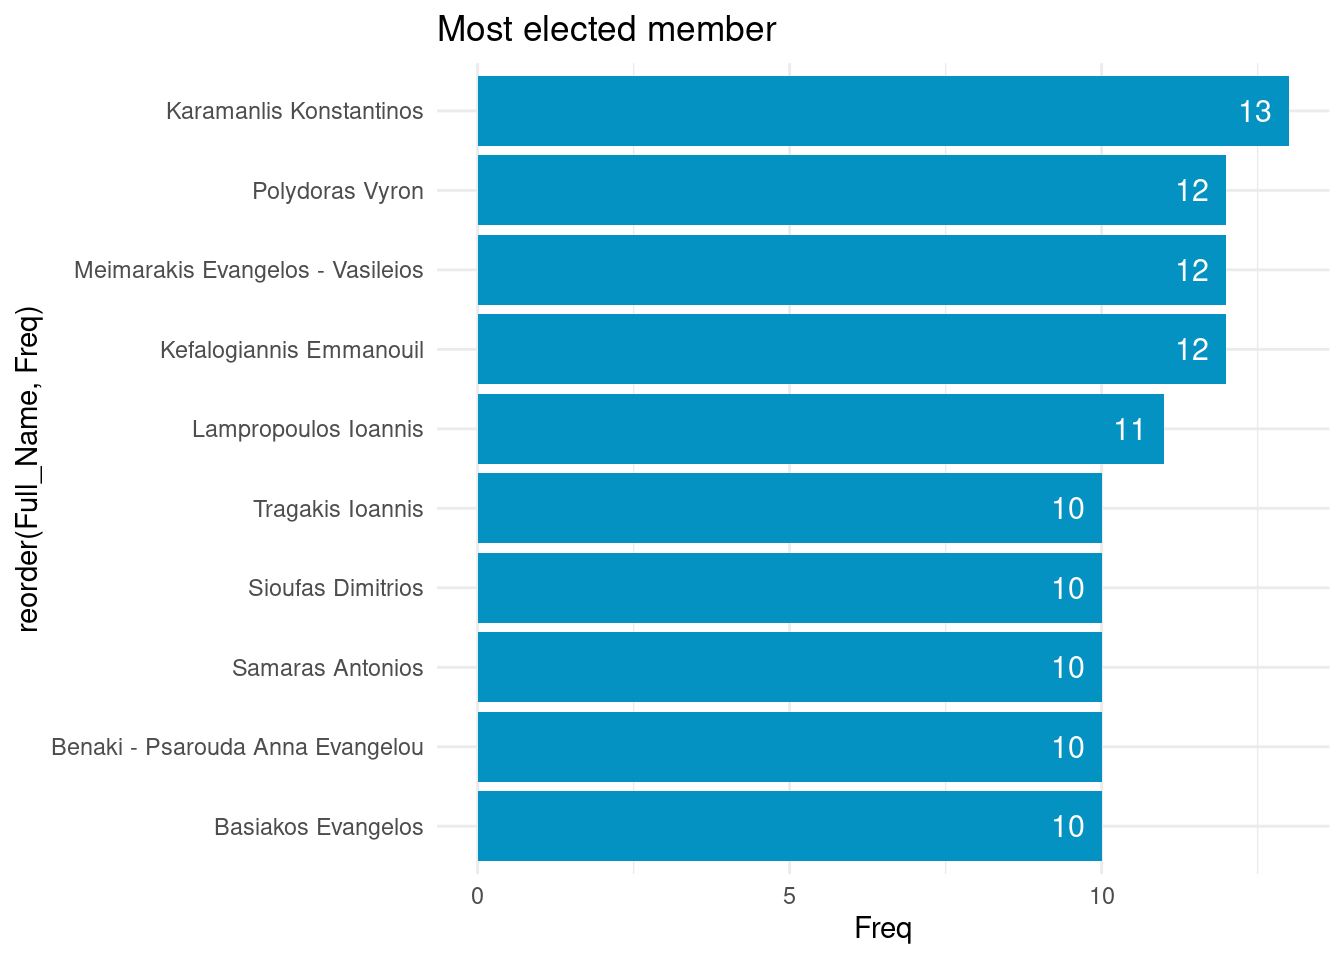
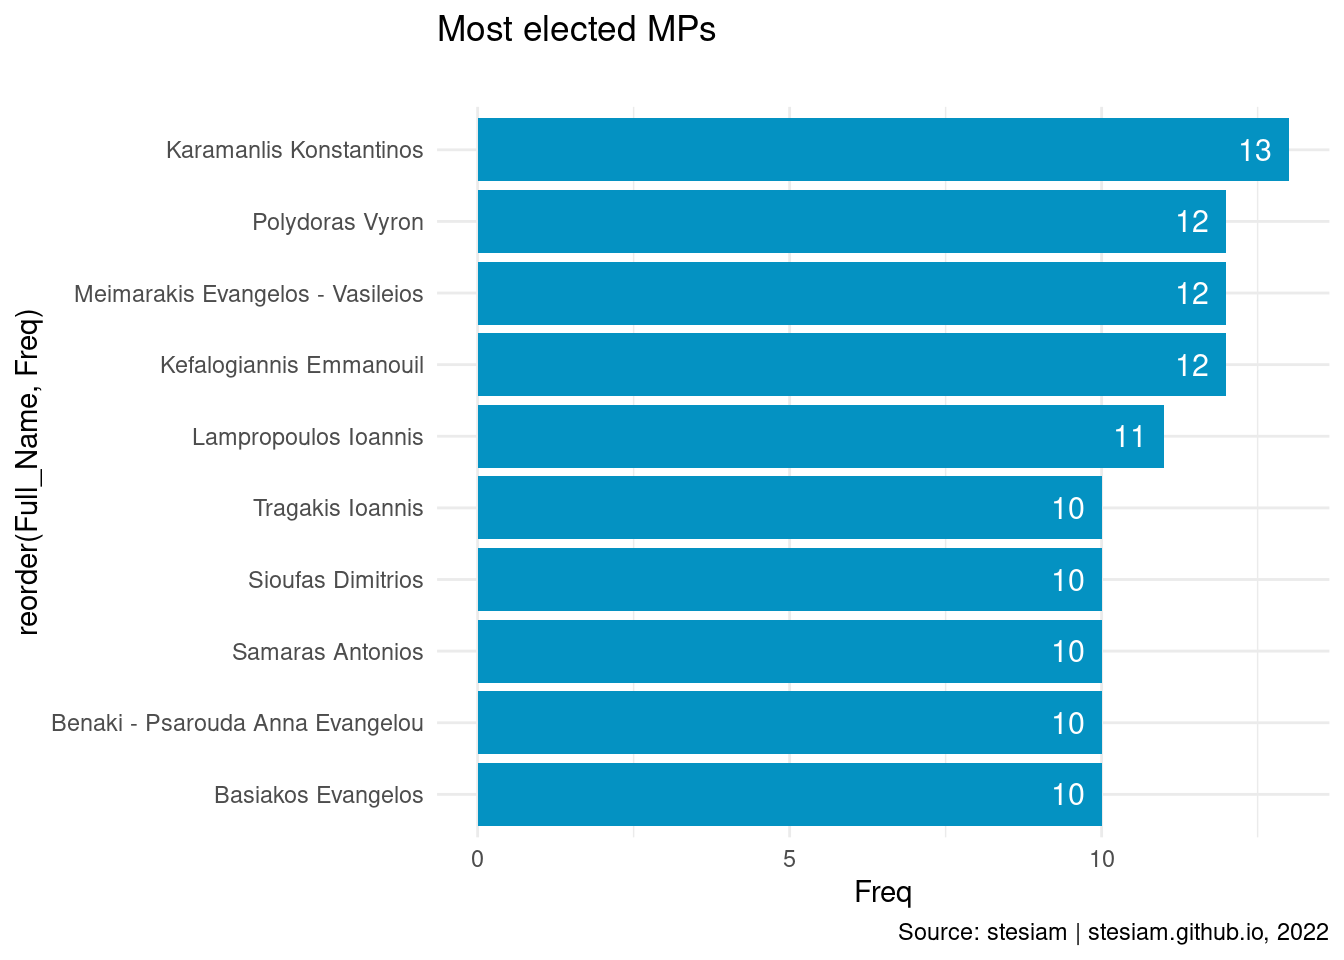
Edit article - EDA Greek Parliament

diff --git a/docs/notebooks/2022-10-10-Surnames-Greek-Parliament/2022-10-10-Surnames-Greek-Parliament.html b/docs/notebooks/2022-10-10-Surnames-Greek-Parliament/2022-10-10-Surnames-Greek-Parliament.html
@@ -242,7 +242,7 @@ div.csl-indent {
   <li><a href="#parliament-over-the-years" id="toc-parliament-over-the-years" class="nav-link" data-scroll-target="#parliament-over-the-years">Parliament over the years</a></li>
   <li><a href="#most-elected-members-of-parliament" id="toc-most-elected-members-of-parliament" class="nav-link" data-scroll-target="#most-elected-members-of-parliament">Most elected members of parliament</a></li>
   <li>
-<a href="#most-elected-members-based-on-party" id="toc-most-elected-members-based-on-party" class="nav-link" data-scroll-target="#most-elected-members-based-on-party">Most elected members based on party</a>
+<a href="#most-elected-members-by-party" id="toc-most-elected-members-by-party" class="nav-link" data-scroll-target="#most-elected-members-by-party">Most elected members by party</a>
   <ul class="collapse">
 <li><a href="#kke" id="toc-kke" class="nav-link" data-scroll-target="#kke">KKE</a></li>
   <li><a href="#nd" id="toc-nd" class="nav-link" data-scroll-target="#nd">ND</a></li>
@@ -251,6 +251,7 @@ div.csl-indent {
   </ul>
 </li>
   <li><a href="#most-elected-members-based-on-constituency" id="toc-most-elected-members-based-on-constituency" class="nav-link" data-scroll-target="#most-elected-members-based-on-constituency">Most elected members based on constituency</a></li>
+  <li><a href="#conclusion" id="toc-conclusion" class="nav-link" data-scroll-target="#conclusion">Conclusion</a></li>
   <li><a href="#acknowledgments" id="toc-acknowledgments" class="nav-link" data-scroll-target="#acknowledgments">Acknowledgments</a></li>
   </ul><div class="toc-actions"><div><i class="bi bi-github"></i></div><div class="action-links"><p><a href="https://github.com/stesiam/stesiam.github.io/edit/main/notebooks/2022-10-10-Surnames-Greek-Parliament/2022-10-10-Surnames-Greek-Parliament.qmd" class="toc-action">Edit this page</a></p><p><a href="https://github.com/stesiam/stesiam.github.io/issues/new" class="toc-action">Report an issue</a></p></div></div></nav>
 </nav><!-- margin-sidebar --><div id="quarto-margin-sidebar" class="sidebar margin-sidebar">
@@ -269,10 +270,10 @@ div.csl-indent {
 <a href="#most-elected-members-of-parliament">Most elected members of parliament</a> <br>
 </li>
 <li>
-<a href="#most-elected-members-per-party">Most elected members per party</a> <br> &nbsp; 5.1 <a href="#kke">KKE</a> <br> &nbsp; 5.2 <a href="#nd">ND</a> <br> &nbsp; 5.3 <a href="#pasok">PASOK</a> <br> &nbsp; 5.4 <a href="#syriza">SYRIZA</a> <br>
+<a href="#most-elected-members-by-party">Most elected members by party</a> <br> &nbsp; 5.1 <a href="#kke">KKE</a> <br> &nbsp; 5.2 <a href="#nd">ND</a> <br> &nbsp; 5.3 <a href="#pasok">PASOK</a> <br> &nbsp; 5.4 <a href="#syriza">SYRIZA</a> <br>
 </li>
 <li>
-<a href="#most-elected-members-per-constituency">Most elected members per constituency</a> <br> &nbsp; 6.1 <a href="#attica">Attica</a> <br> &nbsp; 6.2 <a href="#attica">Central Greece</a> <br> &nbsp; 6.3 <a href="#attica">Central Macedonia</a> <br> &nbsp; 6.4 <a href="#attica">Crete</a> <br> &nbsp; 6.5 <a href="#attica">Eastern Macedonia and Thrace</a> <br> &nbsp; 6.6 <a href="#attica">Epirus</a> <br> &nbsp; 6.7 <a href="#attica">Ionian Islands</a> <br> &nbsp; 6.8 <a href="#attica">North Aegean</a> <br> &nbsp; 6.9 <a href="#attica">Peloponnese</a> <br> &nbsp; 6.10 <a href="#attica">South Aegean</a> <br> &nbsp; 6.11 <a href="#attica">Thessaly</a> <br> &nbsp; 6.12 <a href="#attica">Western Greece</a> <br> &nbsp; 6.13 <a href="#">Western Macedonia</a> <br>
+<a href="#most-elected-members-per-constituency">Most elected members per constituency</a> <br> &nbsp; 6.1 <a href="#attica">Attica</a> <br> &nbsp; 6.2 <a href="#central-greece">Central Greece</a> <br> &nbsp; 6.3 <a href="#central-macenodia">Central Macedonia</a> <br> &nbsp; 6.4 <a href="#crete">Crete</a> <br> &nbsp; 6.5 <a href="#eastern-macedonia-and-thrace">Eastern Macedonia and Thrace</a> <br> &nbsp; 6.6 <a href="#epirus">Epirus</a> <br> &nbsp; 6.7 <a href="#ionian-islands">Ionian Islands</a> <br> &nbsp; 6.8 <a href="#north-aegean">North Aegean</a> <br> &nbsp; 6.9 <a href="#pelopponnese">Peloponnese</a> <br> &nbsp; 6.10 <a href="#south-aegean">South Aegean</a> <br> &nbsp; 6.11 <a href="#thessaly">Thessaly</a> <br> &nbsp; 6.12 <a href="#western-greece">Western Greece</a> <br> &nbsp; 6.13 <a href="#western-macedonia">Western Macedonia</a> <br>
 </li>
 <li><a href="#acknowledgements">Acknowledgements</a></li>
 <li>
@@ -522,7 +523,9 @@ div.csl-indent {
 <span>  <span class="fu"><a href="https://ggplot2.tidyverse.org/reference/geom_text.html">geom_text</a></span><span class="op">(</span><span class="fu"><a href="https://ggplot2.tidyverse.org/reference/aes.html">aes</a></span><span class="op">(</span>label<span class="op">=</span><span class="va">Freq</span><span class="op">)</span>, hjust <span class="op">=</span> <span class="fl">1.5</span>, vjust<span class="op">=</span><span class="fl">0.5</span>, color<span class="op">=</span><span class="st">"white"</span>, size<span class="op">=</span><span class="fl">4</span><span class="op">)</span><span class="op">+</span></span>
 <span>  <span class="fu"><a href="https://ggplot2.tidyverse.org/reference/ggtheme.html">theme_minimal</a></span><span class="op">(</span><span class="op">)</span> <span class="op">+</span></span>
 <span>  <span class="fu"><a href="https://ggplot2.tidyverse.org/reference/scale_grey.html">scale_fill_grey</a></span><span class="op">(</span><span class="op">)</span> <span class="op">+</span></span>
-<span>  <span class="fu"><a href="https://ggplot2.tidyverse.org/reference/labs.html">ggtitle</a></span><span class="op">(</span><span class="st">"Most elected MPs on Greek Parliament (1981 - 2019)"</span><span class="op">)</span> <span class="op">+</span></span>
+<span>  <span class="fu"><a href="https://ggplot2.tidyverse.org/reference/labs.html">labs</a></span><span class="op">(</span>title <span class="op">=</span> <span class="st">"Most elected MPs on Greek Parliament (1981 - 2019)"</span>,</span>
+<span>       subtitle <span class="op">=</span> <span class="st">""</span>,</span>
+<span>       caption <span class="op">=</span> <span class="st">"Source: stesiam | stesiam.github.io, 2022"</span><span class="op">)</span> <span class="op">+</span></span>
 <span>  <span class="fu"><a href="https://ggplot2.tidyverse.org/reference/coord_flip.html">coord_flip</a></span><span class="op">(</span><span class="op">)</span></span></code><button title="Copy to Clipboard" class="code-copy-button"><i class="bi"></i></button></pre></div>
 </details><div class="cell-output-display">
 <div class="quarto-figure quarto-figure-center">
@@ -532,8 +535,9 @@ div.csl-indent {
 </div>
 </div>
 </div>
-</section><section id="most-elected-members-based-on-party" class="level1"><h1>Most elected members based on party</h1>
-<p>Μέχρι τώρα είδαμε τα πιο εκλέξιμα μέλη στην ιστορία της μεταπολίτευσης. Ωστόσο, θα είχε ιδιαίτερο ενδριαφέρον να μελετήσουμε το ίδιο χαρακτηριστικό ανά κόμμα. Μία τέτοια ανάλυση για να έχει νόημα απαιτεί μακροχρόνια παρουσία για το κάποιο κόμμα στη Βουλή, οπότε παρακάτω παρουσιάζω τα κόμματα που έχουν τις περισσότερες συμμετοχές στη βουλή. Τέλος, παρατηρώ ότι θα υπάρξει μία σειρά παρόμοιων διαγραμμάτων με ελάχιστες αλλαγές (π.χ. φιλτράρισμα βάσης δεδομένων με βάση το κόμμα και ίσως αλλαγή χρώματος), συνεπώς η χρήση μίας συνάρτησης αποτελεί τον ενδεδειγμένο τρόπο για να συνεχίσω την ανάλυσή μου. Με αυτόν τον τρόπο προσπαθώ να μην επαναλάβω τον ίδιο κώδικα, ακολουθώντας μία σημαντική αρχή του προγραμματισμού (DRY - Don’t repeat yourself).</p>
+</section><section id="most-elected-members-by-party" class="level1"><h1>Most elected members by party</h1>
+<p>So far we have seen the most elected members of Greek parliament for the period 1981-2019. Ιt would be particularly interesting to study the same feature by party. However, finding the most elected member per party can be challenging on parties with relatively low representation on Greek parliament. That is the reason for choosing only some of those.</p>
+<p>Concerning the implementation part, I see that I will make some visualizations with minimum changes (e.g., filter dataset based on party, change color, etc.) so, the creation of a function is justified. That way, I will not repeat same code, following one of the principles of programming (DRY - Don’t Repeat Yourself).</p>
 <div class="cell">
 <details><summary>Show the code</summary><div class="sourceCode" id="cb9"><pre class="downlit sourceCode r code-with-copy"><code class="sourceCode R"><span><span class="va">party_plot</span> <span class="op">&lt;-</span> <span class="kw">function</span><span class="op">(</span><span class="va">party</span>, <span class="va">party_color</span>, <span class="va">times_elected_min</span><span class="op">)</span><span class="op">{</span></span>
 <span>  <span class="va">party_df</span> <span class="op">=</span> <span class="va">parliament</span> <span class="op"><a href="https://magrittr.tidyverse.org/reference/pipe.html">%&gt;%</a></span> <span class="fu"><a href="https://dplyr.tidyverse.org/reference/filter.html">filter</a></span><span class="op">(</span><span class="va">Party</span> <span class="op">==</span> <span class="va">party</span><span class="op">)</span> <span class="op"><a href="https://magrittr.tidyverse.org/reference/pipe.html">%&gt;%</a></span></span>
@@ -543,12 +547,14 @@ div.csl-indent {
 <span>  <span class="fu"><a href="https://ggplot2.tidyverse.org/reference/geom_bar.html">geom_bar</a></span><span class="op">(</span>stat <span class="op">=</span> <span class="st">"identity"</span>,width <span class="op">=</span> <span class="fl">0.88</span>, fill <span class="op">=</span> <span class="va">party_color</span><span class="op">)</span> <span class="op">+</span></span>
 <span>  <span class="fu"><a href="https://ggplot2.tidyverse.org/reference/geom_text.html">geom_text</a></span><span class="op">(</span><span class="fu"><a href="https://ggplot2.tidyverse.org/reference/aes.html">aes</a></span><span class="op">(</span>label<span class="op">=</span><span class="va">Freq</span><span class="op">)</span>, hjust <span class="op">=</span> <span class="fl">1.5</span>, vjust<span class="op">=</span><span class="fl">0.5</span>, color<span class="op">=</span><span class="st">"white"</span>, size<span class="op">=</span><span class="fl">4</span><span class="op">)</span><span class="op">+</span></span>
 <span>  <span class="fu"><a href="https://ggplot2.tidyverse.org/reference/ggtheme.html">theme_minimal</a></span><span class="op">(</span><span class="op">)</span> <span class="op">+</span></span>
-<span>  <span class="fu"><a href="https://ggplot2.tidyverse.org/reference/labs.html">ggtitle</a></span><span class="op">(</span><span class="st">"Most elected member"</span><span class="op">)</span> <span class="op">+</span></span>
+<span>   <span class="fu"><a href="https://ggplot2.tidyverse.org/reference/labs.html">labs</a></span><span class="op">(</span>title <span class="op">=</span> <span class="st">"Most elected MPs"</span>,</span>
+<span>       subtitle <span class="op">=</span> <span class="st">""</span>,</span>
+<span>       caption <span class="op">=</span> <span class="st">"Source: stesiam | stesiam.github.io, 2022"</span><span class="op">)</span> <span class="op">+</span></span>
 <span>  <span class="fu"><a href="https://ggplot2.tidyverse.org/reference/coord_flip.html">coord_flip</a></span><span class="op">(</span><span class="op">)</span></span>
 <span><span class="op">}</span></span></code><button title="Copy to Clipboard" class="code-copy-button"><i class="bi"></i></button></pre></div>
 </details>
 </div>
-<p>Οι αναλύσεις ανά κόμμα παρουσιάζονται με αλφαβητική σειρά :</p>
+<p>The visualizations are presented in alphabetical order.</p>
 <section id="kke" class="level2"><h2 class="anchored" data-anchor-id="kke">KKE</h2>
 <div class="cell">
 <details><summary>Show the code</summary><div class="sourceCode" id="cb10"><pre class="downlit sourceCode r code-with-copy"><code class="sourceCode R"><span><span class="fu">party_plot</span><span class="op">(</span><span class="st">"KKE"</span>, <span class="st">"#FF6666"</span>, times_elected_min <span class="op">=</span> <span class="fl">5</span><span class="op">)</span></span></code><button title="Copy to Clipboard" class="code-copy-button"><i class="bi"></i></button></pre></div>
@@ -578,7 +584,14 @@ div.csl-indent {
 </div>
 </div>
 </section></section><section id="most-elected-members-based-on-constituency" class="level1"><h1>Most elected members based on constituency</h1>
-<p>A function for constituencies.</p>
+<p>So far we have seen :</p>
+<ul>
+<li>the composition of Greek Parliament</li>
+<li>the most elected MPs on national level and</li>
+<li>the most elected MPs on party level</li>
+</ul>
+<p>The last part of my analysis will investigate the most popular MPs on local level (per profecture).</p>
+<p>Obviously, the same logic applies to party charts (same processes with minor changes), so the use of a function is almost mandatory (over fifty -50- cases !).</p>
 <div class="cell">
 <details><summary>Show the code</summary><div class="sourceCode" id="cb14"><pre class="downlit sourceCode r code-with-copy"><code class="sourceCode R"><span><span class="va">constituency_freqs</span> <span class="op">&lt;-</span> <span class="kw">function</span><span class="op">(</span><span class="va">input_constituency</span><span class="op">)</span><span class="op">{</span></span>
 <span><span class="va">parliament</span> <span class="op"><a href="https://magrittr.tidyverse.org/reference/pipe.html">%&gt;%</a></span> <span class="fu"><a href="https://dplyr.tidyverse.org/reference/filter.html">filter</a></span><span class="op">(</span><span class="va">Constituency</span> <span class="op">==</span> <span class="va">input_constituency</span><span class="op">)</span> <span class="op"><a href="https://magrittr.tidyverse.org/reference/pipe.html">%&gt;%</a></span></span>
@@ -2670,7 +2683,8 @@ div.csl-indent {
 </div>
 </div>
 </div>
-</section></section><div id="quarto-appendix" class="default"><section id="acknowledgments" class="level1 appendix"><h2 class="quarto-appendix-heading">Acknowledgments</h2><div class="quarto-appendix-contents">
+</section></section><section id="conclusion" class="level1"><h1>Conclusion</h1>
+</section><div id="quarto-appendix" class="default"><section id="acknowledgments" class="level1 appendix"><h2 class="quarto-appendix-heading">Acknowledgments</h2><div class="quarto-appendix-contents">
 <p>Image by <a href="https://pixabay.com/users/leonhard_niederwimmer-1131094/?utm_source=link-attribution&amp;utm_medium=referral&amp;utm_campaign=image&amp;utm_content=7402132">Leonhard Niederwimmer</a> from <a href="https://pixabay.com//?utm_source=link-attribution&amp;utm_medium=referral&amp;utm_campaign=image&amp;utm_content=7402132">Pixabay</a> <br></p>
 <p>Data are from <a href="https://github.com/stesiam/Greek-MPs-Dataset">mine repository on GitHub</a>. Original data are from <a href="https://www.hellenicparliament.gr"> Hellenic’s Parliament website</a></p>
 

diff --git a/docs/notebooks.html b/docs/notebooks.html
@@ -218,7 +218,7 @@ ul.task-list{list-style: none;}
     </div>
 </div>
 <div class="list quarto-listing-default">
-<div class="quarto-post image-right" data-index="0" data-categories="R,EDA,Greek Parliament" data-listing-date-sort="1665349200000" data-listing-file-modified-sort="1665506616238" data-listing-reading-time-sort="7.33">
+<div class="quarto-post image-right" data-index="0" data-categories="R,EDA,Greek Parliament" data-listing-date-sort="1665349200000" data-listing-file-modified-sort="1665583301012" data-listing-reading-time-sort="7.88">
 <div class="thumbnail">
 <p><a href="./notebooks/2022-10-10-Surnames-Greek-Parliament/2022-10-10-Surnames-Greek-Parliament.html"> <img src="./notebooks/2022-10-10-Surnames-Greek-Parliament/images/houses-of-parliament.jpg" class="thumnail-image"> </a></p>
 </div>

diff --git a/docs/posts.html b/docs/posts.html
@@ -218,7 +218,7 @@ ul.task-list{list-style: none;}
     </div>
 </div>
 <div class="list quarto-listing-default">
-<div class="quarto-post image-right" data-index="0" data-categories="R,EDA,Greek Parliament" data-listing-date-sort="1665349200000" data-listing-file-modified-sort="1665506616238" data-listing-reading-time-sort="7.33">
+<div class="quarto-post image-right" data-index="0" data-categories="R,EDA,Greek Parliament" data-listing-date-sort="1665349200000" data-listing-file-modified-sort="1665583301012" data-listing-reading-time-sort="7.88">
 <div class="thumbnail">
 <p><a href="./notebooks/2022-10-10-Surnames-Greek-Parliament/2022-10-10-Surnames-Greek-Parliament.html"> <img src="./notebooks/2022-10-10-Surnames-Greek-Parliament/images/houses-of-parliament.jpg" class="thumnail-image"> </a></p>
 </div>
